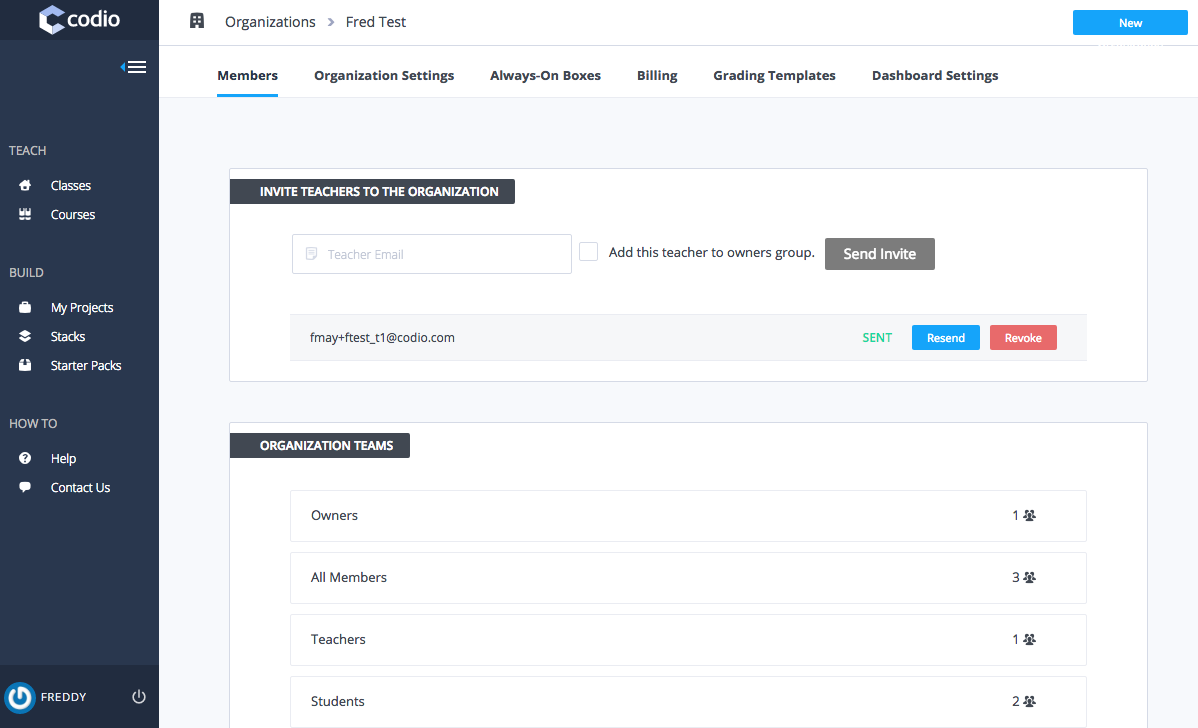
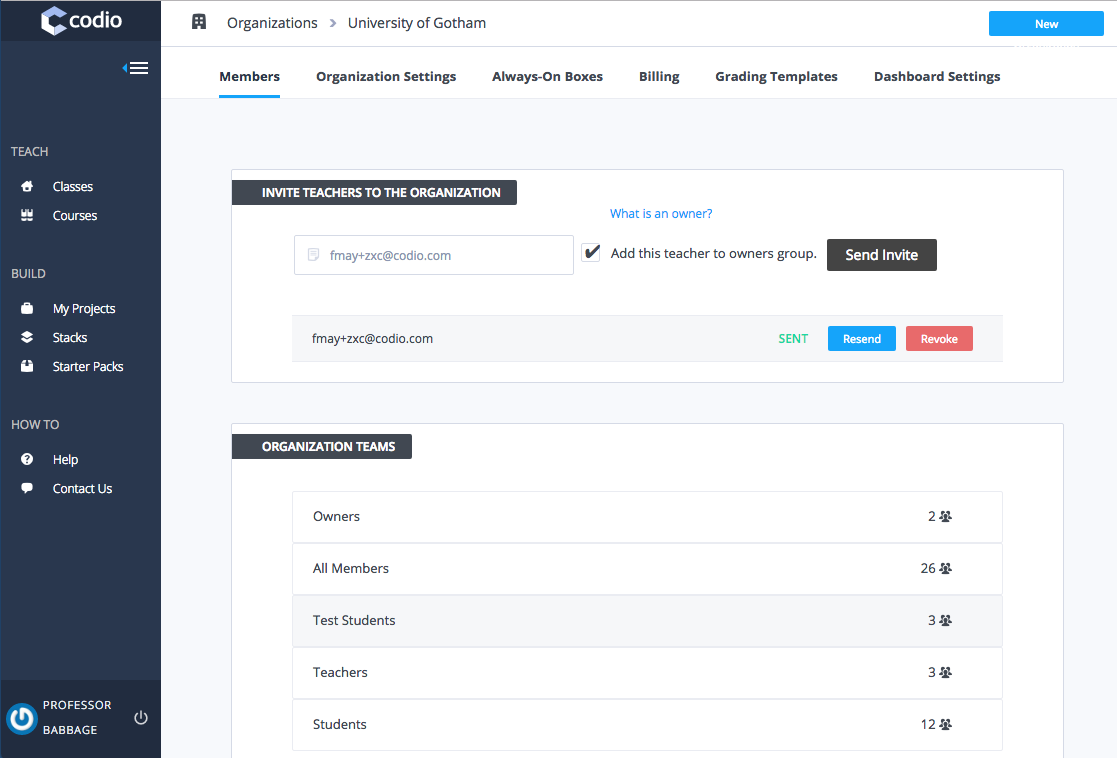
changes as per Jill feedback

diff --git a/.guides/content/Auto-created-test-students-d9c2.md b/.guides/content/Auto-created-test-students-d9c2.md
@@ -3,9 +3,11 @@ Codio automatically manages up to three test student accounts. This is extremely
 ### Checking the test students
 You can find the test student accounts as follows. You will need to be an organization owner.
 
+![](.guides/img/dashboard-pre-test-students.png)
+
 - From the bottom left of your Codio Dashboard, click on your user name.
 - Now click on your organization name. 
-- In the lower part of the screen, you will see an entry "Test Students", click on it.
+- In the lower part of the screen, you will see an entry **Test Students**, click on it.
 - You should see three test students. If you don't, click on the **Restore test student accounts** button.
 
 ![](.guides/img/test-students-list.png)
